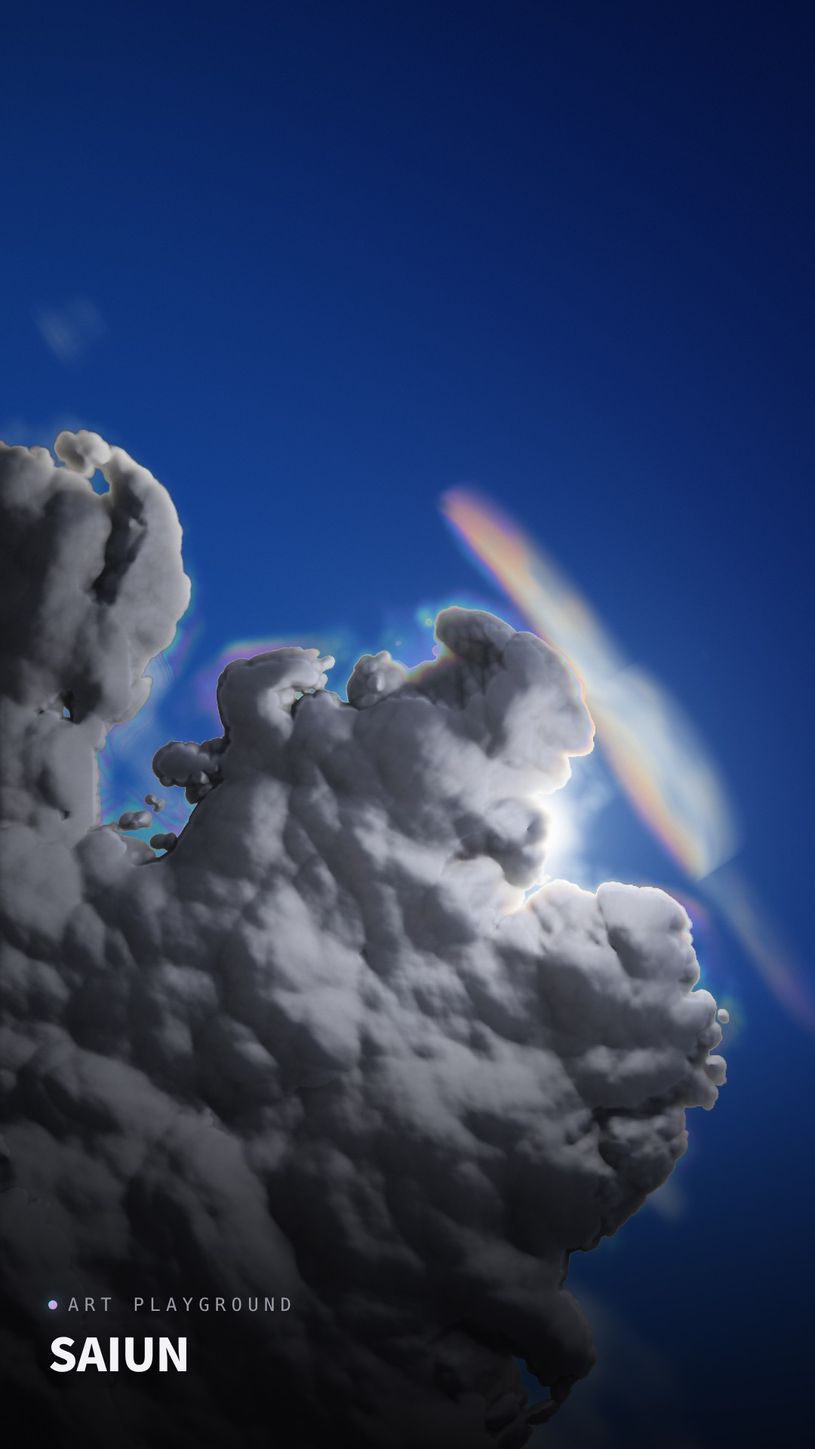
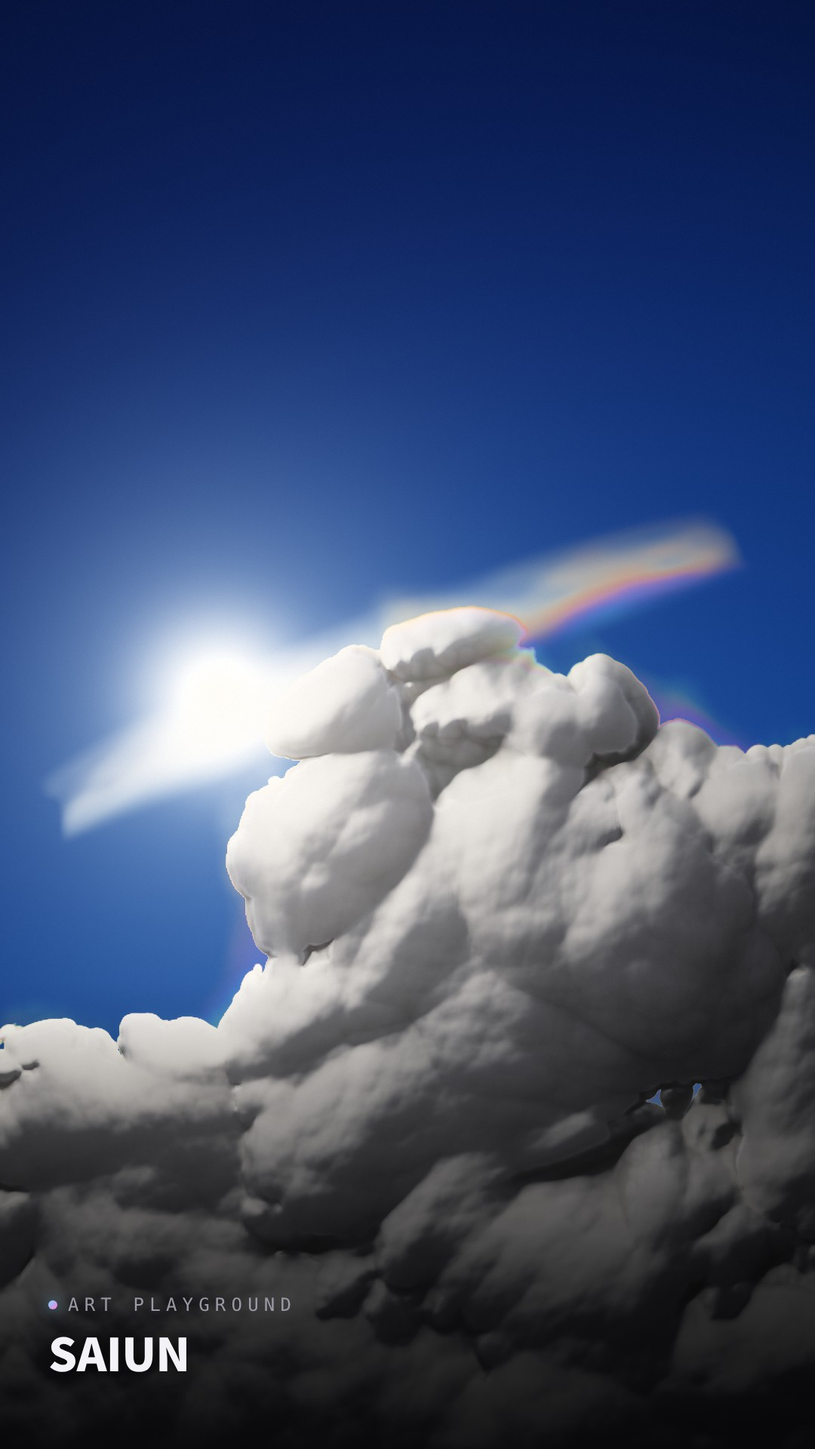
SAIUN: pileus is born on contact and rides the head longer, uneven drifting bands, film colour runs onto the cloud edge; fix blank frames on resolution change; scene change fades through clear sky; fewer detached bits above the head
Claude-Session: https://claude.ai/code/session_019C65K2VXJNwtankMwUoWpd

diff --git a/art-v125-saiun.html b/art-v125-saiun.html
@@ -32,7 +32,7 @@ var VS='#version 300 es\nvoid main(){vec2 p=vec2((gl_VertexID<<1)&2,gl_VertexID&
 // ---- 1段目: 雲の「厚みの地図」を作る。R=手前の面の高さ(陰影用) G=頭巾雲(薄い膜)の濃さ B=膜の水滴の大きさ(色を決める) A=雲の厚み
 var FS1=`#version 300 es
 precision highp float;precision highp sampler3D;
-uniform vec2 R,CA;uniform float ASP,T,SEED,KD,WX;uniform sampler3D N3;uniform vec4 CAM;uniform vec3 BS;
+uniform vec2 R,CA;uniform float ASP,T,SEED,WX;uniform sampler3D N3;uniform vec4 CAM;uniform vec3 BS;
 uniform vec4 TA[${NT}];uniform vec4 TB[${NT}];uniform vec4 TP[${MAXP}];uniform int NP;
 uniform vec4 LY[${NL}];
 out vec4 o;
@@ -61,7 +61,7 @@ void comp(float d,vec2 q,float sd,float zo,float er,float ms,inout float z,inout
  if(d<-.1)return;
  vec3 nn=billow(q,sd);float n=nn.x;
  float nz=nn.y-.45;if(nz<0.)nz*=.55;   // へこみは浅めに(穴だらけにしない)
- float f=d/(d<0.?.07:.10)+1.8*nz*clamp(1.+d/.036,0.,1.)-er*.9;   // 輪郭は、こぶの出入りで決まる(本体から離れた所に粒が飛ばないよう、外へ行くほど出入りを弱める)
+ float f=d/(d<0.?.07:.10)+1.8*nz*clamp(1.+d/.026,0.,1.)-er*.9;   // 輪郭は、こぶの出入りで決まる(本体から離れた所に粒が飛ばないよう、外へ行くほど出入りを弱める)
  // かたまりのまわりの薄いもや(ちぎれ雲)。ここも薄いので法則どおり虹色になる
  if(ms>0.&&f<.25){float w=sN(vec3(q*2.6,T*.02+sd)).g*sN(vec3(q*7.+.3,T*.03+sd)).g;
   float mi=ms*smoothstep(-.5,.1,f+w*1.1-.4)*smoothstep(.25,-.05,f)*w*1.5;v+=mi;sp+=mi*(2.+2.5*clamp(f+.6,0.,1.));}
@@ -90,7 +90,7 @@ void main(){
  float yf=BS.z+.03*sin(p.x*5.+SEED*2.)+.018*sin(p.x*13.+1.);
  comp(yf-p.y,p*1.2+vec2(-WX*.4,7.),SEED+9.,.45,0.,0.,z,th,v,sp);
  // 頭巾雲は描かない。法則から出す:
- //  1) 空には湿った薄い層が何枚かある。育つ塔の頭が下から突き上げると、層は頭の上で浅い丸屋根のように持ち上がる(頭が層に届く少し前から。頭の半径ほど越えると突き破って、塔のわきに襟のように残り、やがて消える)
+ //  1) 空には湿った薄い層が何枚かある。育つ塔の頭が下から突き上げると、層は頭の上で浅い丸屋根のように持ち上がる(頭が層に触れてから。頭の半径ほど越えると突き破って、塔のわきに襟のように残り、やがて消える)
  //  2) 層の空気は、その場所の湿り気で決まる高さ(need)より上まで持ち上げられた所だけ水滴になる=丸屋根の上のほうだけが膜になり、下の縁で切れる
  //  3) 膜は立体の殻なので、横から見ると輪郭(殻を斜めに長く見通す所)がいちばん濃く、内側は薄い
  //  4) 水滴は、膜の縁(水滴になったばかりの所)ほど小さくそろっていて、内側ほど大きくばらつく=色は膜の縁に沿って並び、内側は白い
@@ -98,41 +98,41 @@ void main(){
  float vf=0.,af=0.,sw=0.;
  for(int k=0;k<${NL};k++){vec4 L=LY[k];if(p.y<L.x-.05)continue;
   float H=0.,W=0.,G=0.;
-  for(int i=0;i<${NT};i++){vec4 a=TA[i];float xx=(p.x-a.x)/(1.9*a.z),gi=sqrt(max(1.-xx*xx,0.)),up=a.y+a.z+.03-L.x;   // 丸屋根の断面は円に近い(すそは切り立つ)
-   float ps=min(.025*log(1.+exp(min(up/.025,20.))),1.1*a.z)*gi;
-   H+=ps;W+=ps*TB[i].z*(1.-smoothstep(1.1*a.z,1.9*a.z,up));G=max(G,gi*smoothstep(.003,.015,ps));}
+  for(int i=0;i<${NT};i++){vec4 a=TA[i];float xx=(p.x-a.x)/(1.9*a.z),gi=sqrt(max(1.-xx*xx,0.)),up=a.y+a.z+.012-L.x;   // 丸屋根の断面は円に近い(すそは切り立つ)。up=頭のてっぺんが層を越えた高さ
+   float ps=min(.008*log(1.+exp(min(up/.008,20.))),1.1*a.z)*gi;   // 膜は、頭が層に触れてから生まれる(触れる前から浮かんでいると、頭と関係のない帯に見える)
+   H+=ps;W+=ps*TB[i].z*(1.-smoothstep(1.3*a.z,2.4*a.z,up));G=max(G,gi*smoothstep(.002,.010,ps));}
   float wl=.5*L.y,e=L.x+H-p.y;if(e<-3.*wl)continue;   // e=膜の輪郭(殻のへり)からの内側の深さ
   vec2 pa=vec2(p.x-WX,p.y-H);   // 湿り気のむらと筋は、持ち上げられた面に沿う(筋が膜の流れをなぞる)
   // 湿り気はむらになって風で流れる。とくに湿った所(hmが大きい)は、押し上げがなくても水滴になっている=流れてくる薄い雲のかけら
   float hm=sN(vec3(pa.x*1.6,L.x*2.6+float(k)*.37,SEED+T*.004)).g;
-  float need=L.z*(1.22-1.6*hm),c=p.y-L.x-need;if(c<=0.)continue;
+  float need=L.z*(1.22-1.6*hm),c=p.y-L.x-min(need,0.)+.004;if(c<=0.)continue;   // 浮かぶかけらは湿り気で決まる高さから上、持ち上げられた膜は層の高さから上
   float fa=sN(vec3(pa.x*2.2,pa.y*9.,SEED+3.+T*.006)).g,fb=sN(vec3(pa.x*5.,pa.y*30.,SEED+5.+T*.009)).g;
   float pt=sN(vec3(pa.x*6.5,pa.y*15.+float(k)*.6,SEED+8.+T*.011)).g;   // 細かいむら
   float cap=smoothstep(.16,.5,G+(pt-.5)*.6+(fa-.5)*.4)*(H>1e-4?W/H:0.)*smoothstep(-3.*wl,wl,e)/sqrt(1.+max(e,0.)/wl);   // 持ち上げられた膜(殻)。横の端はちぎれて終わる。塔が育つのをやめると消えていく
   float lens=exp(-e*e/(L.y*L.y)),wis=smoothstep(0.,.006,-need)*lens*smoothstep(.28,.6,fa)*(.5+pt)*.8;   // 押し上げなしで浮かぶ、薄い雲のかけら(ほつれた形)
   float vk=L.w*.5*max(cap,wis)*smoothstep(0.,.022,c)*(.42+.85*pt)*(.8+.4*fb);
   float ed=max(e,0.)+wl;   // 膜の外の輪郭からの距離
-  float ak=(cap>wis?1.+45.*ed*(1.+14.*ed):1.2+2.4*lens)+.8*(pt-.5)+.5*(fa-.5);
+  float kb=.4+1.3*sN(vec3(pa.x*2.6+float(k)*.5,L.x*3.,SEED+11.+T*.028)).g;   // 水滴が育つ速さは場所で違い、ゆっくり移ろう=帯は太い所と細い所ができ、同じ模様が続かない
+  float ak=(cap>wis?1.+45.*kb*ed*(1.+14.*ed):1.2+2.4*lens)+.8*(pt-.5)+.5*(fa-.5);
   float w4=vk*vk;w4*=w4;vf+=vk;af+=w4*ak;sw+=w4;}   // 膜が重なる所は、濃いほうの膜の色が見える(混ぜると帯が折れる)
  if(sw>0.){v+=vf;sp+=vf*af/sw;}
 // 遠くの雲の帯(下のほうに、やわらかく白く)。厚くて水滴が大きいので、色は分かれず白いまま
  {vec2 pb=vec2(p.x-WX*.5,p.y);float bk=sN(vec3(pb*vec2(1.3,2.6)+7.,SEED*.7+T*.003)).g*.68+sN(vec3(pb*vec2(3.6,6.4)+3.,SEED+T*.006)).g*.32;
   float b0=bk;bk=smoothstep(.40,.74,bk+(BS.x+.10-p.y)*1.7);v+=bk*.8;sp+=bk*.8*(7.+8.*b0);}
  sp=v>1e-4?sp/v:2.;   // 水滴の半径(マイクロメートル)
- // なぞった所は雲が薄くなる。場面が替わるときは、空ぜんたいの雲が同じように薄れて消える
- float E=0.,Eg=1.-KD;
+ // なぞった所は雲が薄くなる
+ float E=0.;
  for(int i=0;i<${MAXP};i++){if(i>=NP)break;vec2 dd=p-TP[i].xy;E=max(E,TP[i].z*exp(-dot(dd,dd)/(.0042*CAM.w*CAM.w)));}
- if(E>.002||Eg>.002){float en=sN(vec3(p*4.5,T*.04)).g,en2=sN(vec3(p.x*3.,p.y*14.,T*.03+.4)).g;
-  E=max(smoothstep(.12,.8,E*(.7+.7*en)),smoothstep(0.,.55,Eg*(.6+.9*en)));
+ if(E>.002){float en=sN(vec3(p*4.5,T*.04)).g,en2=sN(vec3(p.x*3.,p.y*14.,T*.03+.4)).g;
+  E=smoothstep(.12,.8,E*(.7+.7*en));
   // 厚い雲は、うすい膜のような雲に変わる。薄くなった所は法則どおり虹色に光る
-  float thin=min(th,.012+.13*en*en2);th=mix(th,thin,E);z*=1.-.75*E;
-  float fo=1.-smoothstep(.5,1.,Eg);th*=fo;v*=fo;}
+  float thin=min(th,.012+.13*en*en2);th=mix(th,thin,E);z*=1.-.75*E;}
  o=vec4(z*.4,v,sp/12.,th);}`;
 
 // ---- 2段目: 厚みの地図に光を当てる
 var FS2=`#version 300 es
 precision highp float;
-uniform sampler2D F;uniform vec2 R,FR,S,UP;uniform float ASP,T,DUSK,DARK,ZM;
+uniform sampler2D F;uniform vec2 R,FR,S,UP;uniform float ASP,T,DUSK,DARK,ZM,KD;
 out vec4 o;
 float h1(vec2 p){vec3 q=fract(vec3(p.xyx)*.1031);q+=dot(q,q.yzx+33.33);return fract((q.x+q.y)*q.z);}
 // 色は絵の具の表ではなく、回折の式から出す。小さな水滴のまわりで光が回り込む強さ(エアリーの式 (2J1(x)/x)^2)を、
@@ -177,25 +177,26 @@ void main(){
  vec3 Cc=(sunC*(light*(.15+1.05*dif)*1.5+glow*(.6+.4*crs)+dif*shade*far*.6*(1.-.8*DARK))+amb)*mix(1.12,.30+.80*exp(-rs*rs*6.5),.45+.55*DARK);   // 順光ぎみの日は、太陽から離れた所も明るい
  Cc*=mix(vec3(1.),mix(vec3(.235,.27,.37),vec3(.21,.20,.33),DUSK),DARK);   // 逆光の場面: 雲の本体は暗い青灰色に沈む
  float ec=exp(-rs*2.6);   // 太陽に近い輪郭ほど、色が分かれる
- Cc+=sunC*mix(vec3(1.),corona(2.2+12.*th,ang),.2+.6*ec)*rim*light*(.25+1.3*exp(-rs*3.5))*(1.+1.4*DARK);   // 太陽の側の輪郭は光る(銀の縁)。輪郭は薄いので、太陽の近くでは虹色に分かれる
+ float tv=(1.-exp(-v*3.2))*.75;   // 膜が触れている輪郭は、膜の水滴がまじる=膜の色が雲の縁へそのまま続く
+ Cc+=sunC*mix(vec3(1.),corona(mix(2.2+12.*th,sp,tv),ang),.2+.6*max(ec,tv))*rim*light*(.25+1.3*exp(-rs*3.5))*(1.+1.4*DARK);   // 太陽の側の輪郭は光る(銀の縁)。輪郭は薄いので、太陽の近くでは虹色に分かれる
  // 薄い雲は光を通して明るく、虹色に分かれる(法則)。広く薄い所ほど色がはっきり出る
  float fw=.10+.7*(1.-DARK)*(1.-DARK)+1.5*exp(-rs*5.)+.8*exp(-rs*rs*45.);
  float wide=1.-smoothstep(.03,.30,thb);
- vec3 Ct=sunC*fw*mix(vec3(1.),corona(2.4+10.*th,ang),.1+.8*max(wide,ec*.85));   // 積雲の水滴は大きめ。薄い所ほど小さい
+ vec3 Ct=sunC*fw*mix(vec3(1.),corona(mix(2.4+10.*th,sp,tv),ang),.1+.8*max(wide,max(ec*.85,tv)));   // 積雲の水滴は大きめ。薄い所ほど小さい
  vec3 Ccl=mix(Ct,Cc,smoothstep(.02,.17,th));
- float ac=1.-exp(-th*18.);
+ float ac=(1.-exp(-th*18.))*KD;   // KD=天気が入れ替わるときの濃さ(0で晴れた空だけ)。雲を薄い膜に変えるのではなく、そのまま透けて消える
  // 空
  vec3 sky=mix(mix(vec3(.105,.29,.58),vec3(.36,.24,.39),DUSK),mix(vec3(.028,.095,.285),vec3(.03,.05,.20),DUSK),smoothstep(-.4,.52,dot(p,UP)));
  sky+=DUSK*vec3(.50,.24,.07)*exp(-rs*2.1);   // 夕方は、太陽のまわりの空が橙に染まる
  sky+=sunC*(.16*exp(-rs*5.5)+.05*exp(-rs*1.6))*mix(vec3(.6,.8,1.),vec3(1.,.7,.5),DUSK);
  // 頭巾雲(薄い膜)
- float av=1.-exp(-v*3.2);
+ float av=(1.-exp(-v*3.2))*KD;
  vec3 Cv=sunC*(.30+1.35*exp(-rs*3.2)+1.6*exp(-rs*rs*220.))*mix(vec3(1.),corona(sp,ang),.9-.36*DUSK);   // 夕日は青や緑の光が減っているので、色の分かれ方は弱くなる
  vec3 col=sky*(1.-av*.45)+Cv*av;
- col+=sunC*textureLod(F,uv,4.5).g*exp(-rs*4.)*.5;   // 膜のまわりのにじみ
- col+=sunC*(exp(-rs*rs*2600.)*7.+exp(-rs*15.)*.55)*exp(-v*4.5);   // 雲が切れると太陽そのものが見える
+ col+=sunC*textureLod(F,uv,4.5).g*exp(-rs*4.)*.5*KD;   // 膜のまわりのにじみ
+ col+=sunC*(exp(-rs*rs*2600.)*7.+exp(-rs*15.)*.55)*exp(-v*4.5*KD);   // 雲が切れると太陽そのものが見える
  col=mix(col,Ccl,ac);
- vec4 cS=textureLod(F,(S/vec2(ASP,1.))+.5,2.);float tS=exp(-cS.a*9.-cS.g*2.2);   // 太陽が雲の切れ間から出たら、にじんだ強い光
+ vec4 cS=textureLod(F,(S/vec2(ASP,1.))+.5,2.);float tS=exp(-(cS.a*9.+cS.g*2.2)*KD);   // 太陽が雲の切れ間から出たら、にじんだ強い光
  col+=sunC*tS*(exp(-rs*8.)*.45+exp(-rs*rs*500.)*2.2);
  col+=Cv*av*ac*.06*(.3+.7*light);   // 膜は雲の手前にも薄くかかる
  // 写真らしさ: 周辺を少し落とす、階調、粒
@@ -208,8 +209,8 @@ void main(){
 function sh(t,s){var x=gl.createShader(t);gl.shaderSource(x,s);gl.compileShader(x);if(!gl.getShaderParameter(x,gl.COMPILE_STATUS))throw gl.getShaderInfoLog(x);return x;}
 function prog(fs,names){var pr=gl.createProgram();gl.attachShader(pr,sh(gl.VERTEX_SHADER,VS));gl.attachShader(pr,sh(gl.FRAGMENT_SHADER,fs));gl.linkProgram(pr);
   if(!gl.getProgramParameter(pr,gl.LINK_STATUS))throw gl.getProgramInfoLog(pr);var U={};names.forEach(function(n){U[n]=gl.getUniformLocation(pr,n);});return {p:pr,U:U};}
-var P1=prog(FS1,['R','CA','ASP','T','SEED','KD','WX','N3','CAM','BS','TA','TB','TP','NP','LY']);
-var P2=prog(FS2,['F','R','FR','S','UP','ASP','T','DUSK','DARK','ZM']);
+var P1=prog(FS1,['R','CA','ASP','T','SEED','WX','N3','CAM','BS','TA','TB','TP','NP','LY']);
+var P2=prog(FS2,['F','R','FR','S','UP','ASP','T','DUSK','DARK','ZM','KD']);
 gl.bindVertexArray(gl.createVertexArray());
 
 // ---- 3Dテクスチャ(64^3・くり返し)。R=丸いこぶ、G=なめらかなむら(膜の繊維用)
@@ -251,7 +252,7 @@ function resize(){
   gl.bindFramebuffer(gl.FRAMEBUFFER,fbo);gl.framebufferTexture2D(gl.FRAMEBUFFER,gl.COLOR_ATTACHMENT0,gl.TEXTURE_2D,ftex,0);
   if(half&&gl.checkFramebufferStatus(gl.FRAMEBUFFER)!==gl.FRAMEBUFFER_COMPLETE){half=false;resize();}
 }
-addEventListener('resize',resize);resize();
+var needRes=false;addEventListener('resize',function(){needRes=true;});resize();   // 画面の大きさを変えるとcanvasは空になる。空のまま1コマ見せないよう、次に描く直前に変える
 
 // ---- 天気。乱数で決めるのは天気だけ(雲の並びと育つ速さ、湿った層の高さと湿り気、風、太陽の位置、見上げる向き、1日の長さ)。
 //      頭巾雲の形と色は、ここでは決めない(シェーダーの中で法則から出る)。開くたび・✦で別の天気になる
@@ -276,7 +277,7 @@ function makeScene(sd){
          {cx:sg*rr(.10,.26),lean:rr(-.06,.06),r:rr(.07,.11),ht:rr(-.16,-.02),D:rr(50,66),age:rr(0,50),seed:rr(0,40)}];
   return s;}
 function setScene(sd){scene=makeScene(sd);tur=scene.tur;pts=[];}
-function change(sd,speed){nextSeed=sd;fade=speed;}   // ✦↻を押したとき: 今の雲が薄れて消え、次の天気の雲が現れる
+function change(sd,speed){nextSeed=sd;fade=speed;}   // ✦↻を押したとき: 今の雲が透けて消え、晴れた空をはさんで、次の天気の雲が現れる
 function sstep(a,b,x){x=Math.max(0,Math.min(1,(x-a)/(b-a)));return x*x*(3-2*x);}
 function state(t){var u=t.age/t.D,g=Math.min(1,u/.56);g=1-Math.pow(1-g,2.2);
   var yh=Y0+(t.ht-Y0)*g+.02*sstep(.56,.8,u),r=t.r*(.68+.32*g)*(1+.14*sstep(.5,.8,u));
@@ -312,6 +313,7 @@ var last=performance.now(),simT=0,frames=0,acc=0,dusk=-1,sunS=null;
 var TA=new Float32Array(NT*4),TB=new Float32Array(NT*4),TP=new Float32Array(MAXP*4),LY=new Float32Array(NL*4);
 function frame(now){
   var dt=Math.min(.05,(now-last)/1000);last=now;simT+=dt;var t=simT,ts=simT,i;
+  if(needRes){needRes=false;resize();}
   // ✦↻を押したときの入れ替え: 雲が薄れて消える→次の天気→雲が現れる
   var sc=scene;sc.t+=dt;
   var du=sc.t/sc.day;if(!fade&&du>=1)change(newSeed(),.45);   // 1日が終わると、雲はゆっくり消えて、次の天気の朝になる
@@ -343,7 +345,7 @@ function frame(now){
   gl.bindFramebuffer(gl.FRAMEBUFFER,fbo);gl.viewport(0,0,FW,FH);gl.useProgram(P1.p);
   gl.uniform2f(P1.U.R,FW,FH);gl.uniform1f(P1.U.ASP,asp);gl.uniform1f(P1.U.T,t);gl.uniform1f(P1.U.SEED,sc.sd);gl.uniform1i(P1.U.N3,1);
   gl.uniform2f(P1.U.CA,cam.ax,cam.ay);gl.uniform4f(P1.U.CAM,HX,HY,cam.rot,cam.zoom);gl.uniform3f(P1.U.BS,sc.yb,sc.hump,sc.bank);
-  gl.uniform1f(P1.U.KD,ke);gl.uniform1f(P1.U.WX,sc.wind*t);
+  gl.uniform1f(P1.U.WX,sc.wind*t);
   gl.uniform4fv(P1.U.TA,TA);gl.uniform4fv(P1.U.TB,TB);gl.uniform4fv(P1.U.TP,TP);gl.uniform1i(P1.U.NP,pts.length);
   gl.uniform4fv(P1.U.LY,LY);
   gl.drawArrays(gl.TRIANGLES,0,3);
@@ -353,10 +355,10 @@ function frame(now){
   gl.bindFramebuffer(gl.FRAMEBUFFER,null);gl.viewport(0,0,cv.width,cv.height);gl.useProgram(P2.p);
   gl.uniform1i(P2.U.F,0);gl.uniform2f(P2.U.R,cv.width,cv.height);gl.uniform2f(P2.U.FR,FW,FH);
   gl.uniform2f(P2.U.S,sx,sy);gl.uniform2f(P2.U.UP,Math.sin(cam.rot),Math.cos(cam.rot));gl.uniform1f(P2.U.ASP,asp);gl.uniform1f(P2.U.T,t);
-  gl.uniform1f(P2.U.DUSK,dusk);gl.uniform1f(P2.U.DARK,sc.dark);gl.uniform1f(P2.U.ZM,cam.zoom);
+  gl.uniform1f(P2.U.DUSK,dusk);gl.uniform1f(P2.U.DARK,sc.dark);gl.uniform1f(P2.U.ZM,cam.zoom);gl.uniform1f(P2.U.KD,ke);
   gl.drawArrays(gl.TRIANGLES,0,3);
   // 重い端末では解像度を少し下げる
-  frames++;acc+=dt;if(frames===60){if(acc/60>.024&&scale>.8){scale*=.85;resize();}frames=0;acc=0;}
+  frames++;acc+=dt;if(frames===60){if(acc/60>.024&&scale>.8){scale*=.85;needRes=true;}frames=0;acc=0;}
   requestAnimationFrame(frame);
 }
 requestAnimationFrame(frame);

diff --git a/prototypes/saiun.html b/prototypes/saiun.html
@@ -32,7 +32,7 @@ var VS='#version 300 es\nvoid main(){vec2 p=vec2((gl_VertexID<<1)&2,gl_VertexID&
 // ---- 1段目: 雲の「厚みの地図」を作る。R=手前の面の高さ(陰影用) G=頭巾雲(薄い膜)の濃さ B=膜の水滴の大きさ(色を決める) A=雲の厚み
 var FS1=`#version 300 es
 precision highp float;precision highp sampler3D;
-uniform vec2 R,CA;uniform float ASP,T,SEED,KD,WX;uniform sampler3D N3;uniform vec4 CAM;uniform vec3 BS;
+uniform vec2 R,CA;uniform float ASP,T,SEED,WX;uniform sampler3D N3;uniform vec4 CAM;uniform vec3 BS;
 uniform vec4 TA[${NT}];uniform vec4 TB[${NT}];uniform vec4 TP[${MAXP}];uniform int NP;
 uniform vec4 LY[${NL}];
 out vec4 o;
@@ -61,7 +61,7 @@ void comp(float d,vec2 q,float sd,float zo,float er,float ms,inout float z,inout
  if(d<-.1)return;
  vec3 nn=billow(q,sd);float n=nn.x;
  float nz=nn.y-.45;if(nz<0.)nz*=.55;   // へこみは浅めに(穴だらけにしない)
- float f=d/(d<0.?.07:.10)+1.8*nz*clamp(1.+d/.036,0.,1.)-er*.9;   // 輪郭は、こぶの出入りで決まる(本体から離れた所に粒が飛ばないよう、外へ行くほど出入りを弱める)
+ float f=d/(d<0.?.07:.10)+1.8*nz*clamp(1.+d/.026,0.,1.)-er*.9;   // 輪郭は、こぶの出入りで決まる(本体から離れた所に粒が飛ばないよう、外へ行くほど出入りを弱める)
  // かたまりのまわりの薄いもや(ちぎれ雲)。ここも薄いので法則どおり虹色になる
  if(ms>0.&&f<.25){float w=sN(vec3(q*2.6,T*.02+sd)).g*sN(vec3(q*7.+.3,T*.03+sd)).g;
   float mi=ms*smoothstep(-.5,.1,f+w*1.1-.4)*smoothstep(.25,-.05,f)*w*1.5;v+=mi;sp+=mi*(2.+2.5*clamp(f+.6,0.,1.));}
@@ -90,7 +90,7 @@ void main(){
  float yf=BS.z+.03*sin(p.x*5.+SEED*2.)+.018*sin(p.x*13.+1.);
  comp(yf-p.y,p*1.2+vec2(-WX*.4,7.),SEED+9.,.45,0.,0.,z,th,v,sp);
  // 頭巾雲は描かない。法則から出す:
- //  1) 空には湿った薄い層が何枚かある。育つ塔の頭が下から突き上げると、層は頭の上で浅い丸屋根のように持ち上がる(頭が層に届く少し前から。頭の半径ほど越えると突き破って、塔のわきに襟のように残り、やがて消える)
+ //  1) 空には湿った薄い層が何枚かある。育つ塔の頭が下から突き上げると、層は頭の上で浅い丸屋根のように持ち上がる(頭が層に触れてから。頭の半径ほど越えると突き破って、塔のわきに襟のように残り、やがて消える)
  //  2) 層の空気は、その場所の湿り気で決まる高さ(need)より上まで持ち上げられた所だけ水滴になる=丸屋根の上のほうだけが膜になり、下の縁で切れる
  //  3) 膜は立体の殻なので、横から見ると輪郭(殻を斜めに長く見通す所)がいちばん濃く、内側は薄い
  //  4) 水滴は、膜の縁(水滴になったばかりの所)ほど小さくそろっていて、内側ほど大きくばらつく=色は膜の縁に沿って並び、内側は白い
@@ -98,41 +98,41 @@ void main(){
  float vf=0.,af=0.,sw=0.;
  for(int k=0;k<${NL};k++){vec4 L=LY[k];if(p.y<L.x-.05)continue;
   float H=0.,W=0.,G=0.;
-  for(int i=0;i<${NT};i++){vec4 a=TA[i];float xx=(p.x-a.x)/(1.9*a.z),gi=sqrt(max(1.-xx*xx,0.)),up=a.y+a.z+.03-L.x;   // 丸屋根の断面は円に近い(すそは切り立つ)
-   float ps=min(.025*log(1.+exp(min(up/.025,20.))),1.1*a.z)*gi;
-   H+=ps;W+=ps*TB[i].z*(1.-smoothstep(1.1*a.z,1.9*a.z,up));G=max(G,gi*smoothstep(.003,.015,ps));}
+  for(int i=0;i<${NT};i++){vec4 a=TA[i];float xx=(p.x-a.x)/(1.9*a.z),gi=sqrt(max(1.-xx*xx,0.)),up=a.y+a.z+.012-L.x;   // 丸屋根の断面は円に近い(すそは切り立つ)。up=頭のてっぺんが層を越えた高さ
+   float ps=min(.008*log(1.+exp(min(up/.008,20.))),1.1*a.z)*gi;   // 膜は、頭が層に触れてから生まれる(触れる前から浮かんでいると、頭と関係のない帯に見える)
+   H+=ps;W+=ps*TB[i].z*(1.-smoothstep(1.3*a.z,2.4*a.z,up));G=max(G,gi*smoothstep(.002,.010,ps));}
   float wl=.5*L.y,e=L.x+H-p.y;if(e<-3.*wl)continue;   // e=膜の輪郭(殻のへり)からの内側の深さ
   vec2 pa=vec2(p.x-WX,p.y-H);   // 湿り気のむらと筋は、持ち上げられた面に沿う(筋が膜の流れをなぞる)
   // 湿り気はむらになって風で流れる。とくに湿った所(hmが大きい)は、押し上げがなくても水滴になっている=流れてくる薄い雲のかけら
   float hm=sN(vec3(pa.x*1.6,L.x*2.6+float(k)*.37,SEED+T*.004)).g;
-  float need=L.z*(1.22-1.6*hm),c=p.y-L.x-need;if(c<=0.)continue;
+  float need=L.z*(1.22-1.6*hm),c=p.y-L.x-min(need,0.)+.004;if(c<=0.)continue;   // 浮かぶかけらは湿り気で決まる高さから上、持ち上げられた膜は層の高さから上
   float fa=sN(vec3(pa.x*2.2,pa.y*9.,SEED+3.+T*.006)).g,fb=sN(vec3(pa.x*5.,pa.y*30.,SEED+5.+T*.009)).g;
   float pt=sN(vec3(pa.x*6.5,pa.y*15.+float(k)*.6,SEED+8.+T*.011)).g;   // 細かいむら
   float cap=smoothstep(.16,.5,G+(pt-.5)*.6+(fa-.5)*.4)*(H>1e-4?W/H:0.)*smoothstep(-3.*wl,wl,e)/sqrt(1.+max(e,0.)/wl);   // 持ち上げられた膜(殻)。横の端はちぎれて終わる。塔が育つのをやめると消えていく
   float lens=exp(-e*e/(L.y*L.y)),wis=smoothstep(0.,.006,-need)*lens*smoothstep(.28,.6,fa)*(.5+pt)*.8;   // 押し上げなしで浮かぶ、薄い雲のかけら(ほつれた形)
   float vk=L.w*.5*max(cap,wis)*smoothstep(0.,.022,c)*(.42+.85*pt)*(.8+.4*fb);
   float ed=max(e,0.)+wl;   // 膜の外の輪郭からの距離
-  float ak=(cap>wis?1.+45.*ed*(1.+14.*ed):1.2+2.4*lens)+.8*(pt-.5)+.5*(fa-.5);
+  float kb=.4+1.3*sN(vec3(pa.x*2.6+float(k)*.5,L.x*3.,SEED+11.+T*.028)).g;   // 水滴が育つ速さは場所で違い、ゆっくり移ろう=帯は太い所と細い所ができ、同じ模様が続かない
+  float ak=(cap>wis?1.+45.*kb*ed*(1.+14.*ed):1.2+2.4*lens)+.8*(pt-.5)+.5*(fa-.5);
   float w4=vk*vk;w4*=w4;vf+=vk;af+=w4*ak;sw+=w4;}   // 膜が重なる所は、濃いほうの膜の色が見える(混ぜると帯が折れる)
  if(sw>0.){v+=vf;sp+=vf*af/sw;}
 // 遠くの雲の帯(下のほうに、やわらかく白く)。厚くて水滴が大きいので、色は分かれず白いまま
  {vec2 pb=vec2(p.x-WX*.5,p.y);float bk=sN(vec3(pb*vec2(1.3,2.6)+7.,SEED*.7+T*.003)).g*.68+sN(vec3(pb*vec2(3.6,6.4)+3.,SEED+T*.006)).g*.32;
   float b0=bk;bk=smoothstep(.40,.74,bk+(BS.x+.10-p.y)*1.7);v+=bk*.8;sp+=bk*.8*(7.+8.*b0);}
  sp=v>1e-4?sp/v:2.;   // 水滴の半径(マイクロメートル)
- // なぞった所は雲が薄くなる。場面が替わるときは、空ぜんたいの雲が同じように薄れて消える
- float E=0.,Eg=1.-KD;
+ // なぞった所は雲が薄くなる
+ float E=0.;
  for(int i=0;i<${MAXP};i++){if(i>=NP)break;vec2 dd=p-TP[i].xy;E=max(E,TP[i].z*exp(-dot(dd,dd)/(.0042*CAM.w*CAM.w)));}
- if(E>.002||Eg>.002){float en=sN(vec3(p*4.5,T*.04)).g,en2=sN(vec3(p.x*3.,p.y*14.,T*.03+.4)).g;
-  E=max(smoothstep(.12,.8,E*(.7+.7*en)),smoothstep(0.,.55,Eg*(.6+.9*en)));
+ if(E>.002){float en=sN(vec3(p*4.5,T*.04)).g,en2=sN(vec3(p.x*3.,p.y*14.,T*.03+.4)).g;
+  E=smoothstep(.12,.8,E*(.7+.7*en));
   // 厚い雲は、うすい膜のような雲に変わる。薄くなった所は法則どおり虹色に光る
-  float thin=min(th,.012+.13*en*en2);th=mix(th,thin,E);z*=1.-.75*E;
-  float fo=1.-smoothstep(.5,1.,Eg);th*=fo;v*=fo;}
+  float thin=min(th,.012+.13*en*en2);th=mix(th,thin,E);z*=1.-.75*E;}
  o=vec4(z*.4,v,sp/12.,th);}`;
 
 // ---- 2段目: 厚みの地図に光を当てる
 var FS2=`#version 300 es
 precision highp float;
-uniform sampler2D F;uniform vec2 R,FR,S,UP;uniform float ASP,T,DUSK,DARK,ZM;
+uniform sampler2D F;uniform vec2 R,FR,S,UP;uniform float ASP,T,DUSK,DARK,ZM,KD;
 out vec4 o;
 float h1(vec2 p){vec3 q=fract(vec3(p.xyx)*.1031);q+=dot(q,q.yzx+33.33);return fract((q.x+q.y)*q.z);}
 // 色は絵の具の表ではなく、回折の式から出す。小さな水滴のまわりで光が回り込む強さ(エアリーの式 (2J1(x)/x)^2)を、
@@ -177,25 +177,26 @@ void main(){
  vec3 Cc=(sunC*(light*(.15+1.05*dif)*1.5+glow*(.6+.4*crs)+dif*shade*far*.6*(1.-.8*DARK))+amb)*mix(1.12,.30+.80*exp(-rs*rs*6.5),.45+.55*DARK);   // 順光ぎみの日は、太陽から離れた所も明るい
  Cc*=mix(vec3(1.),mix(vec3(.235,.27,.37),vec3(.21,.20,.33),DUSK),DARK);   // 逆光の場面: 雲の本体は暗い青灰色に沈む
  float ec=exp(-rs*2.6);   // 太陽に近い輪郭ほど、色が分かれる
- Cc+=sunC*mix(vec3(1.),corona(2.2+12.*th,ang),.2+.6*ec)*rim*light*(.25+1.3*exp(-rs*3.5))*(1.+1.4*DARK);   // 太陽の側の輪郭は光る(銀の縁)。輪郭は薄いので、太陽の近くでは虹色に分かれる
+ float tv=(1.-exp(-v*3.2))*.75;   // 膜が触れている輪郭は、膜の水滴がまじる=膜の色が雲の縁へそのまま続く
+ Cc+=sunC*mix(vec3(1.),corona(mix(2.2+12.*th,sp,tv),ang),.2+.6*max(ec,tv))*rim*light*(.25+1.3*exp(-rs*3.5))*(1.+1.4*DARK);   // 太陽の側の輪郭は光る(銀の縁)。輪郭は薄いので、太陽の近くでは虹色に分かれる
  // 薄い雲は光を通して明るく、虹色に分かれる(法則)。広く薄い所ほど色がはっきり出る
  float fw=.10+.7*(1.-DARK)*(1.-DARK)+1.5*exp(-rs*5.)+.8*exp(-rs*rs*45.);
  float wide=1.-smoothstep(.03,.30,thb);
- vec3 Ct=sunC*fw*mix(vec3(1.),corona(2.4+10.*th,ang),.1+.8*max(wide,ec*.85));   // 積雲の水滴は大きめ。薄い所ほど小さい
+ vec3 Ct=sunC*fw*mix(vec3(1.),corona(mix(2.4+10.*th,sp,tv),ang),.1+.8*max(wide,max(ec*.85,tv)));   // 積雲の水滴は大きめ。薄い所ほど小さい
  vec3 Ccl=mix(Ct,Cc,smoothstep(.02,.17,th));
- float ac=1.-exp(-th*18.);
+ float ac=(1.-exp(-th*18.))*KD;   // KD=天気が入れ替わるときの濃さ(0で晴れた空だけ)。雲を薄い膜に変えるのではなく、そのまま透けて消える
  // 空
  vec3 sky=mix(mix(vec3(.105,.29,.58),vec3(.36,.24,.39),DUSK),mix(vec3(.028,.095,.285),vec3(.03,.05,.20),DUSK),smoothstep(-.4,.52,dot(p,UP)));
  sky+=DUSK*vec3(.50,.24,.07)*exp(-rs*2.1);   // 夕方は、太陽のまわりの空が橙に染まる
  sky+=sunC*(.16*exp(-rs*5.5)+.05*exp(-rs*1.6))*mix(vec3(.6,.8,1.),vec3(1.,.7,.5),DUSK);
  // 頭巾雲(薄い膜)
- float av=1.-exp(-v*3.2);
+ float av=(1.-exp(-v*3.2))*KD;
  vec3 Cv=sunC*(.30+1.35*exp(-rs*3.2)+1.6*exp(-rs*rs*220.))*mix(vec3(1.),corona(sp,ang),.9-.36*DUSK);   // 夕日は青や緑の光が減っているので、色の分かれ方は弱くなる
  vec3 col=sky*(1.-av*.45)+Cv*av;
- col+=sunC*textureLod(F,uv,4.5).g*exp(-rs*4.)*.5;   // 膜のまわりのにじみ
- col+=sunC*(exp(-rs*rs*2600.)*7.+exp(-rs*15.)*.55)*exp(-v*4.5);   // 雲が切れると太陽そのものが見える
+ col+=sunC*textureLod(F,uv,4.5).g*exp(-rs*4.)*.5*KD;   // 膜のまわりのにじみ
+ col+=sunC*(exp(-rs*rs*2600.)*7.+exp(-rs*15.)*.55)*exp(-v*4.5*KD);   // 雲が切れると太陽そのものが見える
  col=mix(col,Ccl,ac);
- vec4 cS=textureLod(F,(S/vec2(ASP,1.))+.5,2.);float tS=exp(-cS.a*9.-cS.g*2.2);   // 太陽が雲の切れ間から出たら、にじんだ強い光
+ vec4 cS=textureLod(F,(S/vec2(ASP,1.))+.5,2.);float tS=exp(-(cS.a*9.+cS.g*2.2)*KD);   // 太陽が雲の切れ間から出たら、にじんだ強い光
  col+=sunC*tS*(exp(-rs*8.)*.45+exp(-rs*rs*500.)*2.2);
  col+=Cv*av*ac*.06*(.3+.7*light);   // 膜は雲の手前にも薄くかかる
  // 写真らしさ: 周辺を少し落とす、階調、粒
@@ -208,8 +209,8 @@ void main(){
 function sh(t,s){var x=gl.createShader(t);gl.shaderSource(x,s);gl.compileShader(x);if(!gl.getShaderParameter(x,gl.COMPILE_STATUS))throw gl.getShaderInfoLog(x);return x;}
 function prog(fs,names){var pr=gl.createProgram();gl.attachShader(pr,sh(gl.VERTEX_SHADER,VS));gl.attachShader(pr,sh(gl.FRAGMENT_SHADER,fs));gl.linkProgram(pr);
   if(!gl.getProgramParameter(pr,gl.LINK_STATUS))throw gl.getProgramInfoLog(pr);var U={};names.forEach(function(n){U[n]=gl.getUniformLocation(pr,n);});return {p:pr,U:U};}
-var P1=prog(FS1,['R','CA','ASP','T','SEED','KD','WX','N3','CAM','BS','TA','TB','TP','NP','LY']);
-var P2=prog(FS2,['F','R','FR','S','UP','ASP','T','DUSK','DARK','ZM']);
+var P1=prog(FS1,['R','CA','ASP','T','SEED','WX','N3','CAM','BS','TA','TB','TP','NP','LY']);
+var P2=prog(FS2,['F','R','FR','S','UP','ASP','T','DUSK','DARK','ZM','KD']);
 gl.bindVertexArray(gl.createVertexArray());
 
 // ---- 3Dテクスチャ(64^3・くり返し)。R=丸いこぶ、G=なめらかなむら(膜の繊維用)
@@ -251,7 +252,7 @@ function resize(){
   gl.bindFramebuffer(gl.FRAMEBUFFER,fbo);gl.framebufferTexture2D(gl.FRAMEBUFFER,gl.COLOR_ATTACHMENT0,gl.TEXTURE_2D,ftex,0);
   if(half&&gl.checkFramebufferStatus(gl.FRAMEBUFFER)!==gl.FRAMEBUFFER_COMPLETE){half=false;resize();}
 }
-addEventListener('resize',resize);resize();
+var needRes=false;addEventListener('resize',function(){needRes=true;});resize();   // 画面の大きさを変えるとcanvasは空になる。空のまま1コマ見せないよう、次に描く直前に変える
 
 // ---- 天気。乱数で決めるのは天気だけ(雲の並びと育つ速さ、湿った層の高さと湿り気、風、太陽の位置、見上げる向き、1日の長さ)。
 //      頭巾雲の形と色は、ここでは決めない(シェーダーの中で法則から出る)。開くたび・✦で別の天気になる
@@ -276,7 +277,7 @@ function makeScene(sd){
          {cx:sg*rr(.10,.26),lean:rr(-.06,.06),r:rr(.07,.11),ht:rr(-.16,-.02),D:rr(50,66),age:rr(0,50),seed:rr(0,40)}];
   return s;}
 function setScene(sd){scene=makeScene(sd);tur=scene.tur;pts=[];}
-function change(sd,speed){nextSeed=sd;fade=speed;}   // ✦↻を押したとき: 今の雲が薄れて消え、次の天気の雲が現れる
+function change(sd,speed){nextSeed=sd;fade=speed;}   // ✦↻を押したとき: 今の雲が透けて消え、晴れた空をはさんで、次の天気の雲が現れる
 function sstep(a,b,x){x=Math.max(0,Math.min(1,(x-a)/(b-a)));return x*x*(3-2*x);}
 function state(t){var u=t.age/t.D,g=Math.min(1,u/.56);g=1-Math.pow(1-g,2.2);
   var yh=Y0+(t.ht-Y0)*g+.02*sstep(.56,.8,u),r=t.r*(.68+.32*g)*(1+.14*sstep(.5,.8,u));
@@ -312,6 +313,7 @@ var last=performance.now(),simT=0,frames=0,acc=0,dusk=-1,sunS=null;
 var TA=new Float32Array(NT*4),TB=new Float32Array(NT*4),TP=new Float32Array(MAXP*4),LY=new Float32Array(NL*4);
 function frame(now){
   var dt=Math.min(.05,(now-last)/1000);last=now;simT+=dt;var t=simT,ts=simT,i;
+  if(needRes){needRes=false;resize();}
   // ✦↻を押したときの入れ替え: 雲が薄れて消える→次の天気→雲が現れる
   var sc=scene;sc.t+=dt;
   var du=sc.t/sc.day;if(!fade&&du>=1)change(newSeed(),.45);   // 1日が終わると、雲はゆっくり消えて、次の天気の朝になる
@@ -343,7 +345,7 @@ function frame(now){
   gl.bindFramebuffer(gl.FRAMEBUFFER,fbo);gl.viewport(0,0,FW,FH);gl.useProgram(P1.p);
   gl.uniform2f(P1.U.R,FW,FH);gl.uniform1f(P1.U.ASP,asp);gl.uniform1f(P1.U.T,t);gl.uniform1f(P1.U.SEED,sc.sd);gl.uniform1i(P1.U.N3,1);
   gl.uniform2f(P1.U.CA,cam.ax,cam.ay);gl.uniform4f(P1.U.CAM,HX,HY,cam.rot,cam.zoom);gl.uniform3f(P1.U.BS,sc.yb,sc.hump,sc.bank);
-  gl.uniform1f(P1.U.KD,ke);gl.uniform1f(P1.U.WX,sc.wind*t);
+  gl.uniform1f(P1.U.WX,sc.wind*t);
   gl.uniform4fv(P1.U.TA,TA);gl.uniform4fv(P1.U.TB,TB);gl.uniform4fv(P1.U.TP,TP);gl.uniform1i(P1.U.NP,pts.length);
   gl.uniform4fv(P1.U.LY,LY);
   gl.drawArrays(gl.TRIANGLES,0,3);
@@ -353,10 +355,10 @@ function frame(now){
   gl.bindFramebuffer(gl.FRAMEBUFFER,null);gl.viewport(0,0,cv.width,cv.height);gl.useProgram(P2.p);
   gl.uniform1i(P2.U.F,0);gl.uniform2f(P2.U.R,cv.width,cv.height);gl.uniform2f(P2.U.FR,FW,FH);
   gl.uniform2f(P2.U.S,sx,sy);gl.uniform2f(P2.U.UP,Math.sin(cam.rot),Math.cos(cam.rot));gl.uniform1f(P2.U.ASP,asp);gl.uniform1f(P2.U.T,t);
-  gl.uniform1f(P2.U.DUSK,dusk);gl.uniform1f(P2.U.DARK,sc.dark);gl.uniform1f(P2.U.ZM,cam.zoom);
+  gl.uniform1f(P2.U.DUSK,dusk);gl.uniform1f(P2.U.DARK,sc.dark);gl.uniform1f(P2.U.ZM,cam.zoom);gl.uniform1f(P2.U.KD,ke);
   gl.drawArrays(gl.TRIANGLES,0,3);
   // 重い端末では解像度を少し下げる
-  frames++;acc+=dt;if(frames===60){if(acc/60>.024&&scale>.8){scale*=.85;resize();}frames=0;acc=0;}
+  frames++;acc+=dt;if(frames===60){if(acc/60>.024&&scale>.8){scale*=.85;needRes=true;}frames=0;acc=0;}
   requestAnimationFrame(frame);
 }
 requestAnimationFrame(frame);

diff --git a/CHANGELOG.md b/CHANGELOG.md
@@ -1,3 +1,4 @@
+- 2026-11-16 クロちゃん: SAIUN(CURRENT・art-v125)を、おっちゃんのiPhone録画30秒とムーちゃん・チャッピーの動画レビューをもとに5点修正(おっちゃん「最高のものを頼むよ！」。膜の大きさと雲の造形は変えない方針)。録画をコマに分けて確認=2〜14秒は膜が頭の上に平たく浮いて間に青空/26〜30秒は帯が等間隔に並ぶ/頭のすぐ上に小さな塊が付いたまま/場面が替わった直後に雲全体が虹色に染まる/黒いコマが4回(17.6・20.5・22.9・24.6秒、各1〜3コマ)。**1) 膜は頭が層に触れてから生まれる**(前は頭が0.03〜0.06手前から膜が出て、平たいまま浮いていた。押し上げの立ち上がりを .025→.008、すき間を .03→.012 に。突き破った後に薄れ始めるのを頭の半径の1.1倍→1.3倍、消えるのを1.9倍→2.4倍に延ばし、頭に乗っている時間を長くした。持ち上げられた膜の下の切れ目は層の高さに) **2) 帯の間隔と太さを場所と時間で変える**(水滴が育つ速さに、膜に沿ってゆっくり移ろうむらを掛けた)。膜が触れている雲の輪郭は膜の水滴の大きさを引き継ぐ=膜の色が雲の縁へそのまま続く **3) 黒いコマの修正**: 原因=重いときに解像度を一段下げる処理が、描き終わった直後にcanvasの大きさを変えていて、次に描くまでcanvasが空になり、ギャラリーの録画がその空の1コマを拾っていた(場面転換の暗転ではない)。解像度の変更と画面サイズの変更は、次のコマを描く直前に行うようにした。確認=ギャラリーの録画ボタンで30秒録画し、前の版は黒いコマ1つ(53コマ中)、直した版は0(40コマ中) **4) 天気が入れ替わるとき**、雲を薄い膜に変える(=法則どおり全体が虹色に染まる)のをやめ、雲がそのまま透けて消え、晴れた空をはさんで次の雲が現れる形に(KDを1段目から2段目へ移した) **5) 輪郭のこぶが本体から離れる距離**を .036→.026 に(頭の上に小さな塊が離れて残るのを出にくく。雲の形に触ったのはここだけ)。`prototypes/saiun.html` と `art-v125-saiun.html` は同じ内容。ポスター・OGP・リール用カバーを作り直し(`--check`通過)。確認(ヘッドレスChromium・スマホ幅): コンソールエラーなし、なぞり・✦・↻・1日の終わりの切り替えが動く、同じ天気を時間順に並べて膜が生まれてから消えるまで頭に乗っていることを確認、描画回数は前の版とほぼ同じ(GPUなしで約3.7fps→3.3〜3.7fps)。**iPhone実機での見え方・録画は未確認**。メモ: 実機の録画中は解像度が4段下がっていた(録画中は1コマ24ms=約41fpsを下回っている)。
 - 2026-11-16 クロちゃん: SAIUN(CURRENT・art-v125)の頭巾雲と色を直した(おっちゃん「進めて」。iPhoneの最新録画30秒・実写の参考写真・チャッピーとムーちゃんの評価を合わせて、直す内容を5つに決めてから着手。雲の造形と動きは触っていない)。録画で見えていた不具合=①膜の色が緑と紫の矢羽根のような折れ線(層ごとに別々の帯を作り、重なる所で水滴の大きさを平均していたため)②膜が頭より高くとがる・左右に羽根のように伸びる ③色が緑と紫に片寄る。直した内容: **1)** 水滴の大きさを「膜の外の輪郭からの距離」で決めるように変更(縁ほど小さくそろい、内側ほど大きい=色の帯は膜の輪郭に沿って並び、内側は白い。前は層からの高さで決めていて帯が水平だった)。膜が重なる所は平均せず、濃いほうの膜の色にする **2)** 膜の形を浅い丸屋根に(断面を円に近く、幅は頭の半径の1.9倍、高さは頭の半径の1.1倍まで。頭が層に届く少し前は低いレンズ、頭が昇ると頭を囲むアーチ、半径ほど越えると突き破って薄れる) **3)** 膜の横の端は、湿り気のむらでちぎれて終わる。膜の濃さと水滴の大きさに細かいむらを足した(帯が均一にならない)。浮いたかけらはほつれた形に **4)** 太陽に近い雲の輪郭そのものが色づくように(輪郭は薄いので同じ回折の式で色が分かれる。銀の縁と薄い雲の両方) **5)** 水滴の大きさの幅を狭めて、ピンク・橙・水色が中心に出るように。今回は見送り=雲の細かい動きを足す(チャッピー)、成長のピークで頭巾が濃くなる演出(ムーちゃんのおまけ)。`prototypes/saiun.html` と `art-v125-saiun.html` は同じ内容(ap-kit.jsのパスと冒頭コメントだけ違う)。ポスター・OGP・リール用カバーを作り直し(`--check`通過)。確認(ヘッドレスChromium・スマホ幅): コンソールエラーなし、なぞり・✦・↻・1日の終わりの切り替えが動く、描画回数は前の版と同じ(GPUなしで約3.7fps→3.7fps)。**iPhone実機での見え方は未確認**。残り=膜が2枚重なる所にV字の継ぎ目が出ることがある。
 - 2026-11-16 クロちゃん: SAIUN(彩雲)を採用・art-v125として昇格し、CURRENTに設定、録画の対象にも追加(おっちゃん「とりあえず現状でカレントへ、録画もね」)。`prototypes/saiun.html`(68d2704の版)をコピーし、`../ap-kit.js`→`ap-kit.js`だけ直した(試作ファイルは残してある)。それまでのCURRENTだったSCALEFALL(art-v124)はLOG先頭へ(番号順どおり)。Published worksの先頭にSAIUN、`META`に初回ヒント「眺めるだけで雲が育つ。なぞると雲が薄くなり、縁が虹色に光る」、`REC_WORKS`に`art-v125-saiun.html`。ポスター(タイル+ヒーロー、`poster-config.json`に`#hint`を隠して8秒待つ設定)・OGPカード・リール用縦型カバーを生成(`gen_posters.py --check`・`gen_og.py --check`は通過。`reel/`はこれまでコミットされていなかったので、SAIUNの1枚とその分だけの`manifest.json`を入れた。ほかの作品のリールは`--reel`で作れる)。録画の確認(Android ChromeのUA・390×844のヘッドレスChromium): ギャラリーのCURRENTを開き、本物の録画ボタン→なぞる→停止で、mp4(720×1558・約15秒)に雲と2行の透かしが映り、始めと終わりで絵が変わることを確認。**スマホ実機での録画の重さは未確認**。おっちゃん・チャッピー・ムーちゃんの評価で残っている課題=頭巾雲の膜(雲の頭に密着させ、帯を細く。68d2704で作り直した版はまだ実機未確認)。
 - 2026-11-16 クロちゃん: SAIUN(試作)の頭巾雲を作り直し(ムーちゃんの評価「雲は合格。弱点は主役の頭巾。帯が太くて均一、塔の後ろの空に浮いた虹の弧に見える→頭巾を塔の頂と縁に密着させて、帯を細く、膜の形に沿わせる」。チャッピー・クロちゃんの評価も同じ所を指摘)。前の版=湿った層を「頭の上の押し上げの場」でずらしていて、層は頭から離れた決まった高さに浮いたまま、ぼけたレンズ形の帯になっていた。今の版=①層は、塔の頭が下から突き上げた分だけ、頭の上で帽子のように持ち上がる(頭が層に届く少し前からふくらみ、頭に乗ったまま昇り、頭の半径の1.3倍を超えると突き破って塔のわきに襟のように残る)②膜は立体の殻として描く(横から見ると輪郭がいちばん濃く、内側は薄い)③水滴は高く持ち上げられた所ほど大きい=色は膜の下の縁で細い帯に分かれ、筋は持ち上げられた面に沿う ④塔が育つのをやめると膜は消える(育つ速さを0〜1の活動度にして渡す。風上/風下で水滴の大きさを変える項と WS は外した)⑤押し上げなしで浮かぶ薄い雲のかけらは、とくに湿った所だけの小さなレンズ形に。確認(ヘッドレスChromium・スマホ幅): コンソールエラーなし、描画回数は前の版と同じ(約4.8fps→4.8fps、GPUなし)。**iPhone実機での見え方は未確認**。
